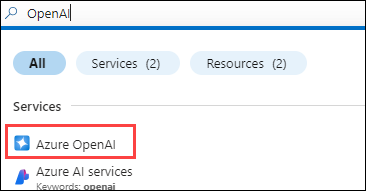
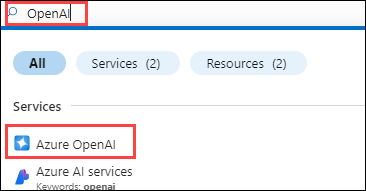
update3

Changed region(s): [[0.0, 0.0, 0.2404, 0.1571]]

diff --git a/lab_instructions/Lab2.md b/lab_instructions/Lab2.md
@@ -1,7 +1,8 @@
 # Lab 02: Utilize your Data Set using OpenAI
 
-## Estimated Duration: 1 Hour
+### Estimated Duration: 1 Hour
 
+## Overview
 In this lab, you will learn how to leverage Azure OpenAI to interact with custom data using the ChatGPT model. By uploading your own data into the Azure AI Foundry portal, you will enable specific, tailored responses to user queries based on the uploaded content. The lab covers steps to upload files, configure the system to manage queries effectively, and deploy the ChatGPT model as a web app. Additionally, the interactions are captured and stored in Cosmos DB, ensuring traceability and persistence of conversation history. This lab provides hands-on experience with customizing AI responses and deploying AI models in a real-world application.
   
 ## Architecture Diagram
@@ -17,7 +18,7 @@ In this lab, you will perform,
 
 ## Task 1: Navigate to Azure OpenAI Playground
 
-1. In the Azure portal, search for **openai** and select **Azure OpenAI**.
+1. In the Azure portal, search for **OpenAI** and select **Azure OpenAI** from **Services**.
 
    ![OpenAI](images/ment1.png)
 
@@ -27,7 +28,7 @@ In this lab, you will perform,
 
 3. On the **Azure OpenAI** page, click on **Go to Azure AI Foundry portal**.
 
-   ![OpenAI Studio](images/ima2upd.png)
+   ![OpenAI Studio](images/l2t1p3.png)
 
    > **Note:** If you don’t see an option like the one shown in the image above, refer to the image below to navigate to Azure AI Foundry.
 
@@ -37,9 +38,9 @@ In this lab, you will perform,
 
 In this step, we will be using Porche's owner manual for Taycan, Panamera, and Cayenne models.
 
-1. In the Playground section, click on **Chat**. Then, under the **Setup** tab in the **Chat** playground, click **+ Add a data source (2)** within the **Add your data (1)** section. 
+1. In the Playground section, click on **Chat (1)**. Then, under the **Setup** tab in the **Chat playground**, click on **Add your data (2)** and then click **+ Add a data source (3)** section. 
 
-   ![Azure OpenAI Studio](images/imag3upd.png)
+   ![Azure OpenAI Studio](images/l2t2p1.png)
    
 1. Fill the following details in **Select or add data source** and click on **Next**.
     
@@ -75,11 +76,11 @@ In this step, we will be using Porche's owner manual for Taycan, Panamera, and C
       
     - Click on **Next**
       
-1. On the **Upload files** tab, click **Browse for a file**. Navigate to the path `C:\LabFiles\Data\Lab 2` and press Enter. Select all the PDF files in this folder, then click **Open** to upload them. 
+1. On the **Upload files** tab, click **Browse for a file (1)**. Navigate to the path `C:\LabFiles\Data\Lab 2` **(2)** and press Enter. Select all the **PDF files (3)** in this folder, then click **Open (4)** to upload them. 
 
-   ![data-management](images/100725(05).png)
+   ![data-management](images/l2t2p3.png)
 
-1. Click on **Upload files** **(1)**, and click on **Next** **(2)**.
+1. Click on **Upload files** **(1)**, and then click **Next** **(2)**.
 
    ![data-management](images/100725(25)%20-%20Copy.png)
 
@@ -99,7 +100,7 @@ In this step, we will be using Porche's owner manual for Taycan, Panamera, and C
 
 1. Under the **Add your data** pane, wait until your data upload is finished.
 
-   ![upload-data](images/imag4.png)
+   ![upload-data](images/l2t3p1.png)
 
 1. Under the **Chat Session** pane, you can start testing out your prompts by entering the query like this.
 
@@ -107,7 +108,7 @@ In this step, we will be using Porche's owner manual for Taycan, Panamera, and C
     How to operate Android Auto in Porche Taycan? give step-by-step instructions
     ```
 
-      ![chat-session-one](images/screen-1.png)
+      ![chat-session-one](images/l2t3p2.png)
 
 1. You can customize the responses of your bot by  updating the message `Your name is Alice. You are an AI assistant that helps people find information about Porche cars. Your responses should not contain any harmful information` **(1)** under **Give the model instructions and context**  and click on **Apply changes** **(2)**.
 
@@ -129,7 +130,7 @@ In this step, we will be using Porche's owner manual for Taycan, Panamera, and C
 
     ![Alt text](images/imag6.png)
 
-1. On the **Chat**, Click on **Deploy to (1)** on the top right and click on **...as a webapp (2)**.
+1. In the **Chat**, click on **Deploy (1)** from the top menu bar and select **...as a web app (2)**.
 
    ![](images/default-1upd.png)
 
@@ -147,7 +148,7 @@ In this step, we will be using Porche's owner manual for Taycan, Panamera, and C
 
      > **Note:** Wait for 10 minutes for the webapp to be deployed successfully.
 
-1. In the Azure Portal, search for **App Services** in the search bar and select it from the search results. 
+1. In the Azure Portal, search for **App Services (1)** in the search bar and select **App Services (2)** from the **Services**. 
 
       ![](images/100725(27)%20-%20Copy.png)
 
@@ -155,7 +156,7 @@ In this step, we will be using Porche's owner manual for Taycan, Panamera, and C
 
       ![](images/100725(28)%20-%20Copy.png)
       
-1. Click on **Browse** and the web app is up and running.
+1. Click **Browse** to verify that the web app is running successfully after deployment.
 
     ![](images/app-service-1.png)
     
@@ -169,7 +170,7 @@ In this step, we will be using Porche's owner manual for Taycan, Panamera, and C
 
       > **Note:** In case of an internal server error, navigate back to the Azure AI Foundry portal and follow the steps below:
 
-   - In the **Chat (1)** section under Playgrounds, click **Deploy to (2)** in the top-right corner, then select **...as a webapp (3)**.
+   - In the **Chat (1)** section under Playgrounds, click **Deploy to (2)** in the top-right corner, then select **...as a web app (3)**.
 
        ![](images/default-1.png)
 
@@ -187,15 +188,15 @@ In this step, we will be using Porche's owner manual for Taycan, Panamera, and C
      
 1. Chat with the bot and check its working state. Provide questions related to the document we had previously uploaded.
 
-1. In the Azure Portal, search for **Azure Cosmos DB** and select it from the search results.
+1. In the Azure Portal, search for **Azure Cosmos DB (1)** and select **Azure Cosmos DB (2)** from the **Services**.
 
-    ![Create an indexer](images/doc94.png)
+    ![Create an indexer](images/l2t3p13.png)
 
-1. Verify **db-webapp-<inject key="Deployment ID" enableCopy="false"/>** has been created then select it.
+1. Verify **db-webapp-<inject key="Deployment ID" enableCopy="false"/>** has been created and then select it.
    
    ![Create an indexer](images/100725(26)%20-%20Copy.png)
 
-1. Go to **Data Explorer (2)** in your Azure Cosmos DB account, then expand the **db_conversation_history (3)** database and the **conversations** container **(4)**. Verify that the conversation data has been successfully captured from the web app **(5)**, as shown in the image below.
+1. In the **db-webapp-<inject key="Deployment ID" enableCopy="false"/>** **(1)**, go to **Data Explorer (2)** in your Azure Cosmos DB account, then expand the **db_conversation_history (3)** database and the **conversations** container **(4)**. Verify that the conversation data has been successfully captured from the web app **(5)**, as shown in the image below.
 
     ![Create an indexer](images/100725(29)%20-%20Copy.png)
 
